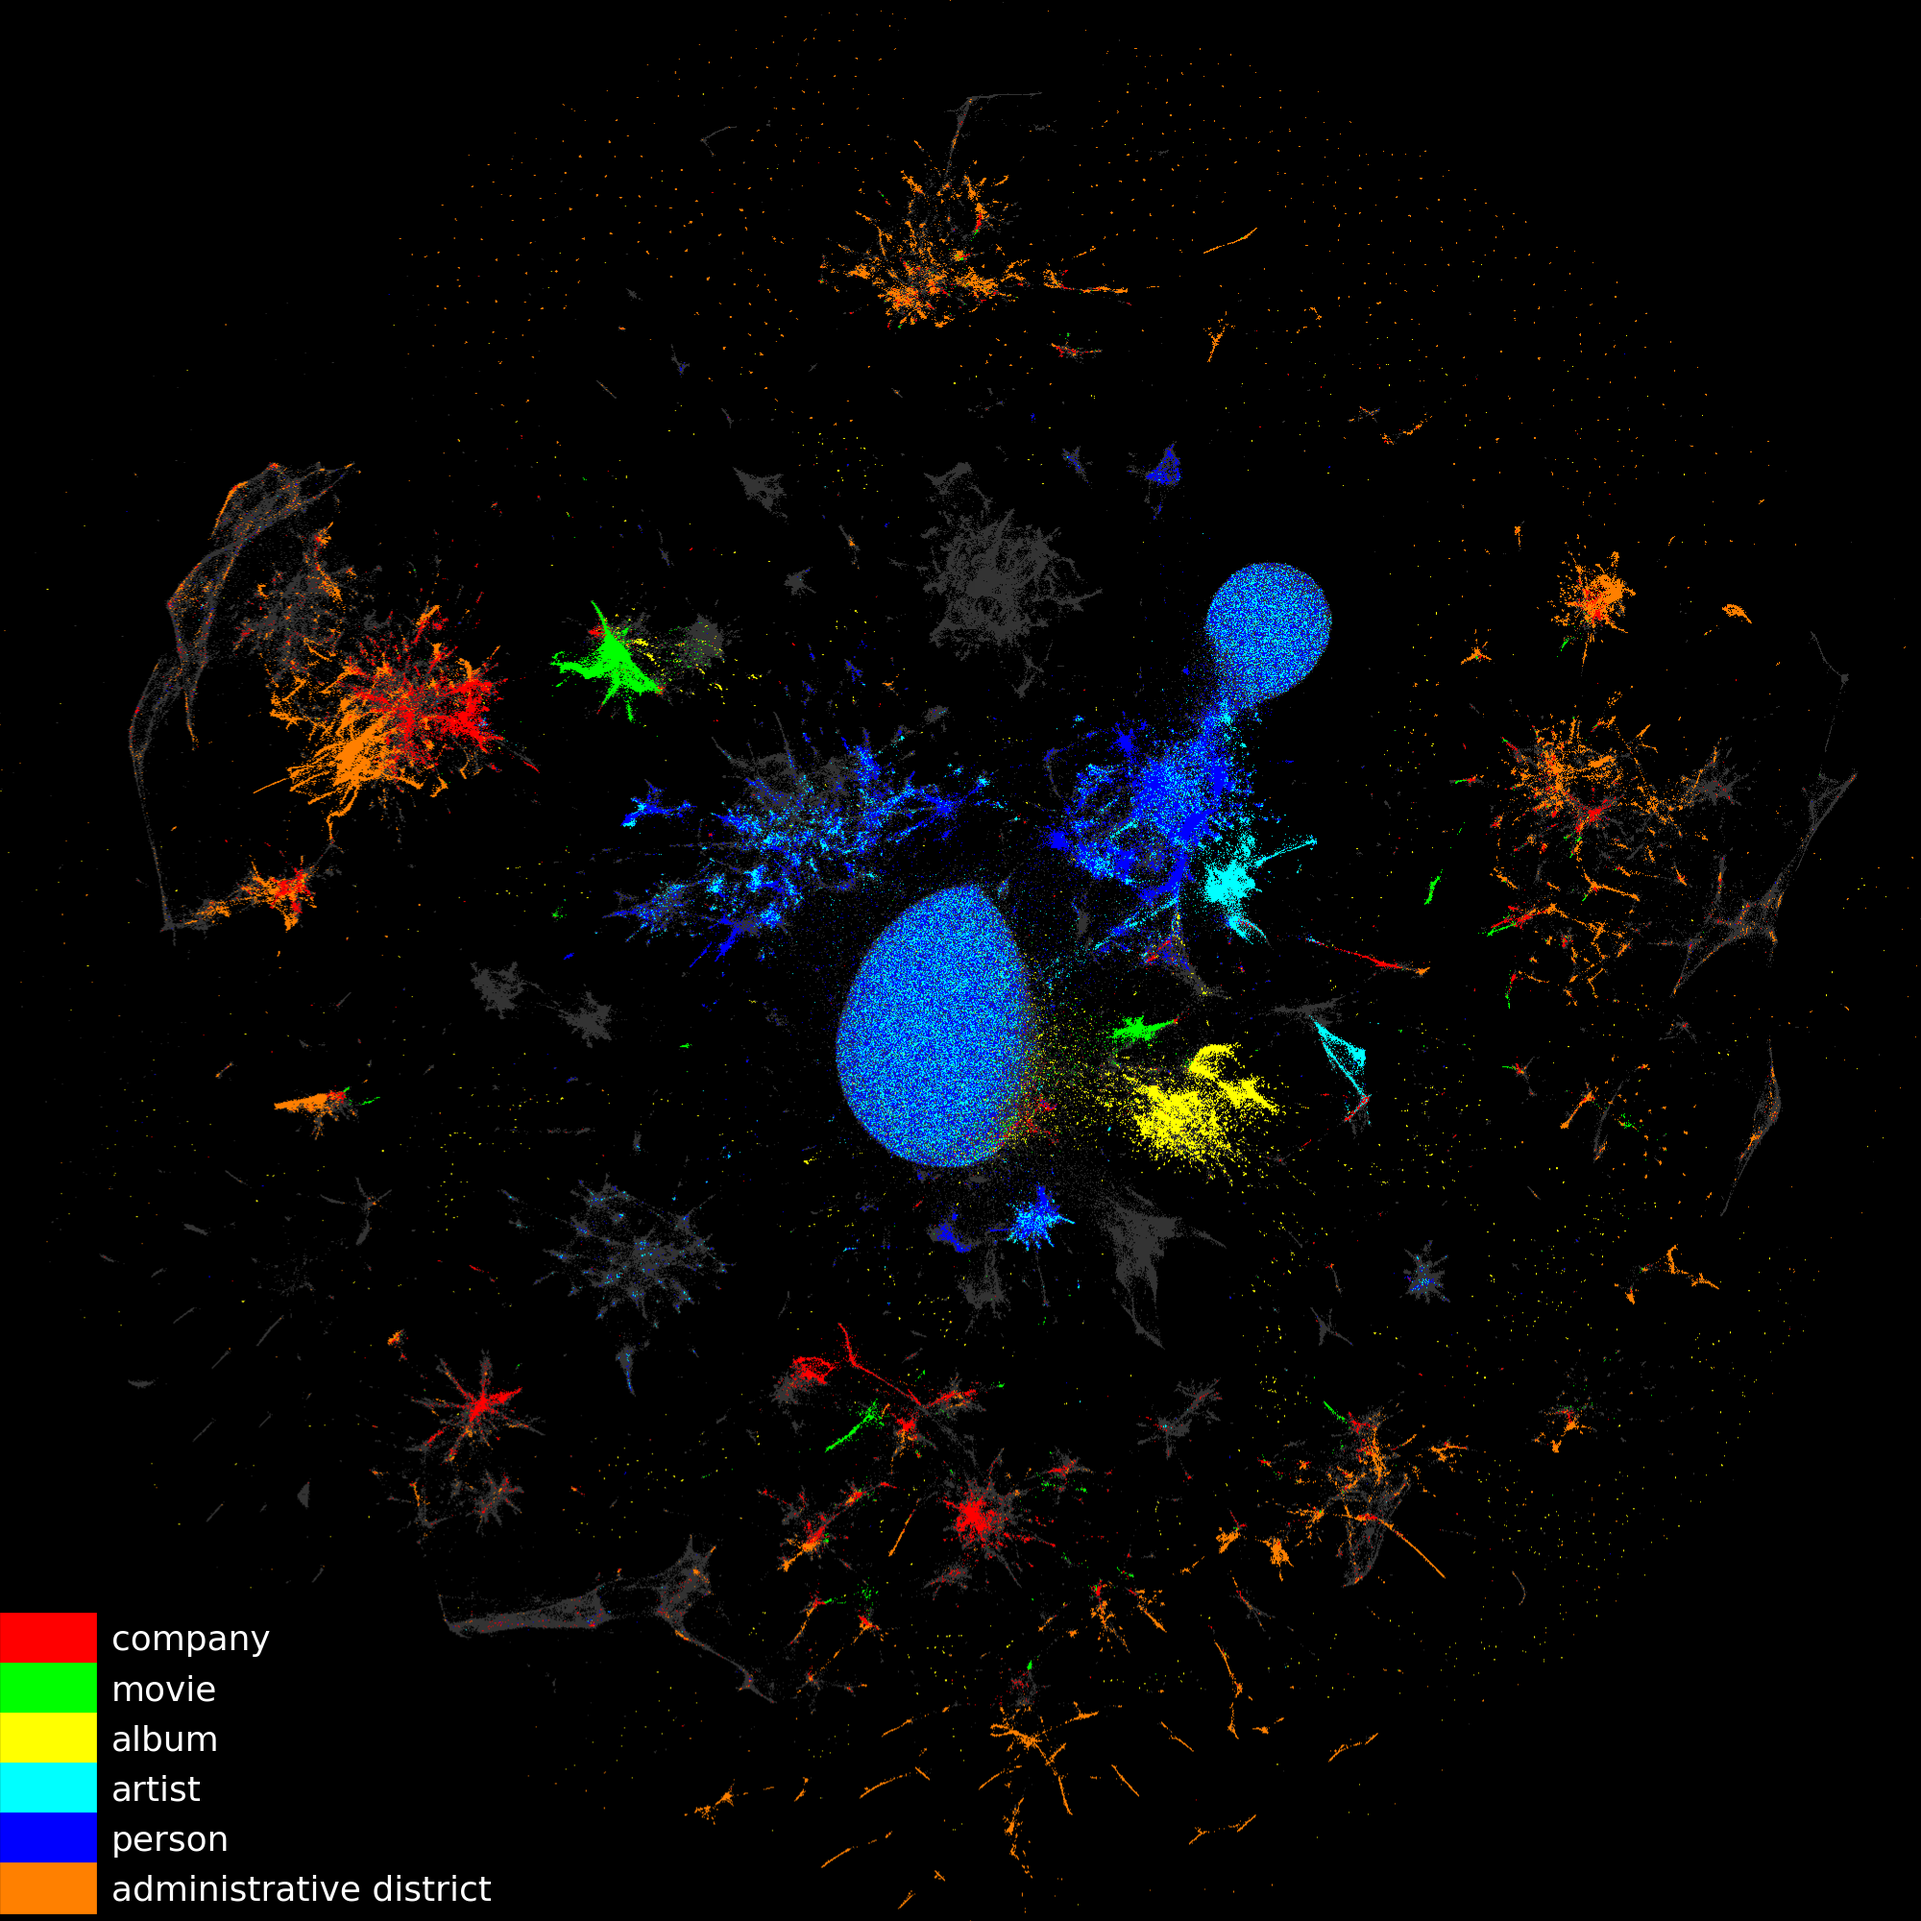
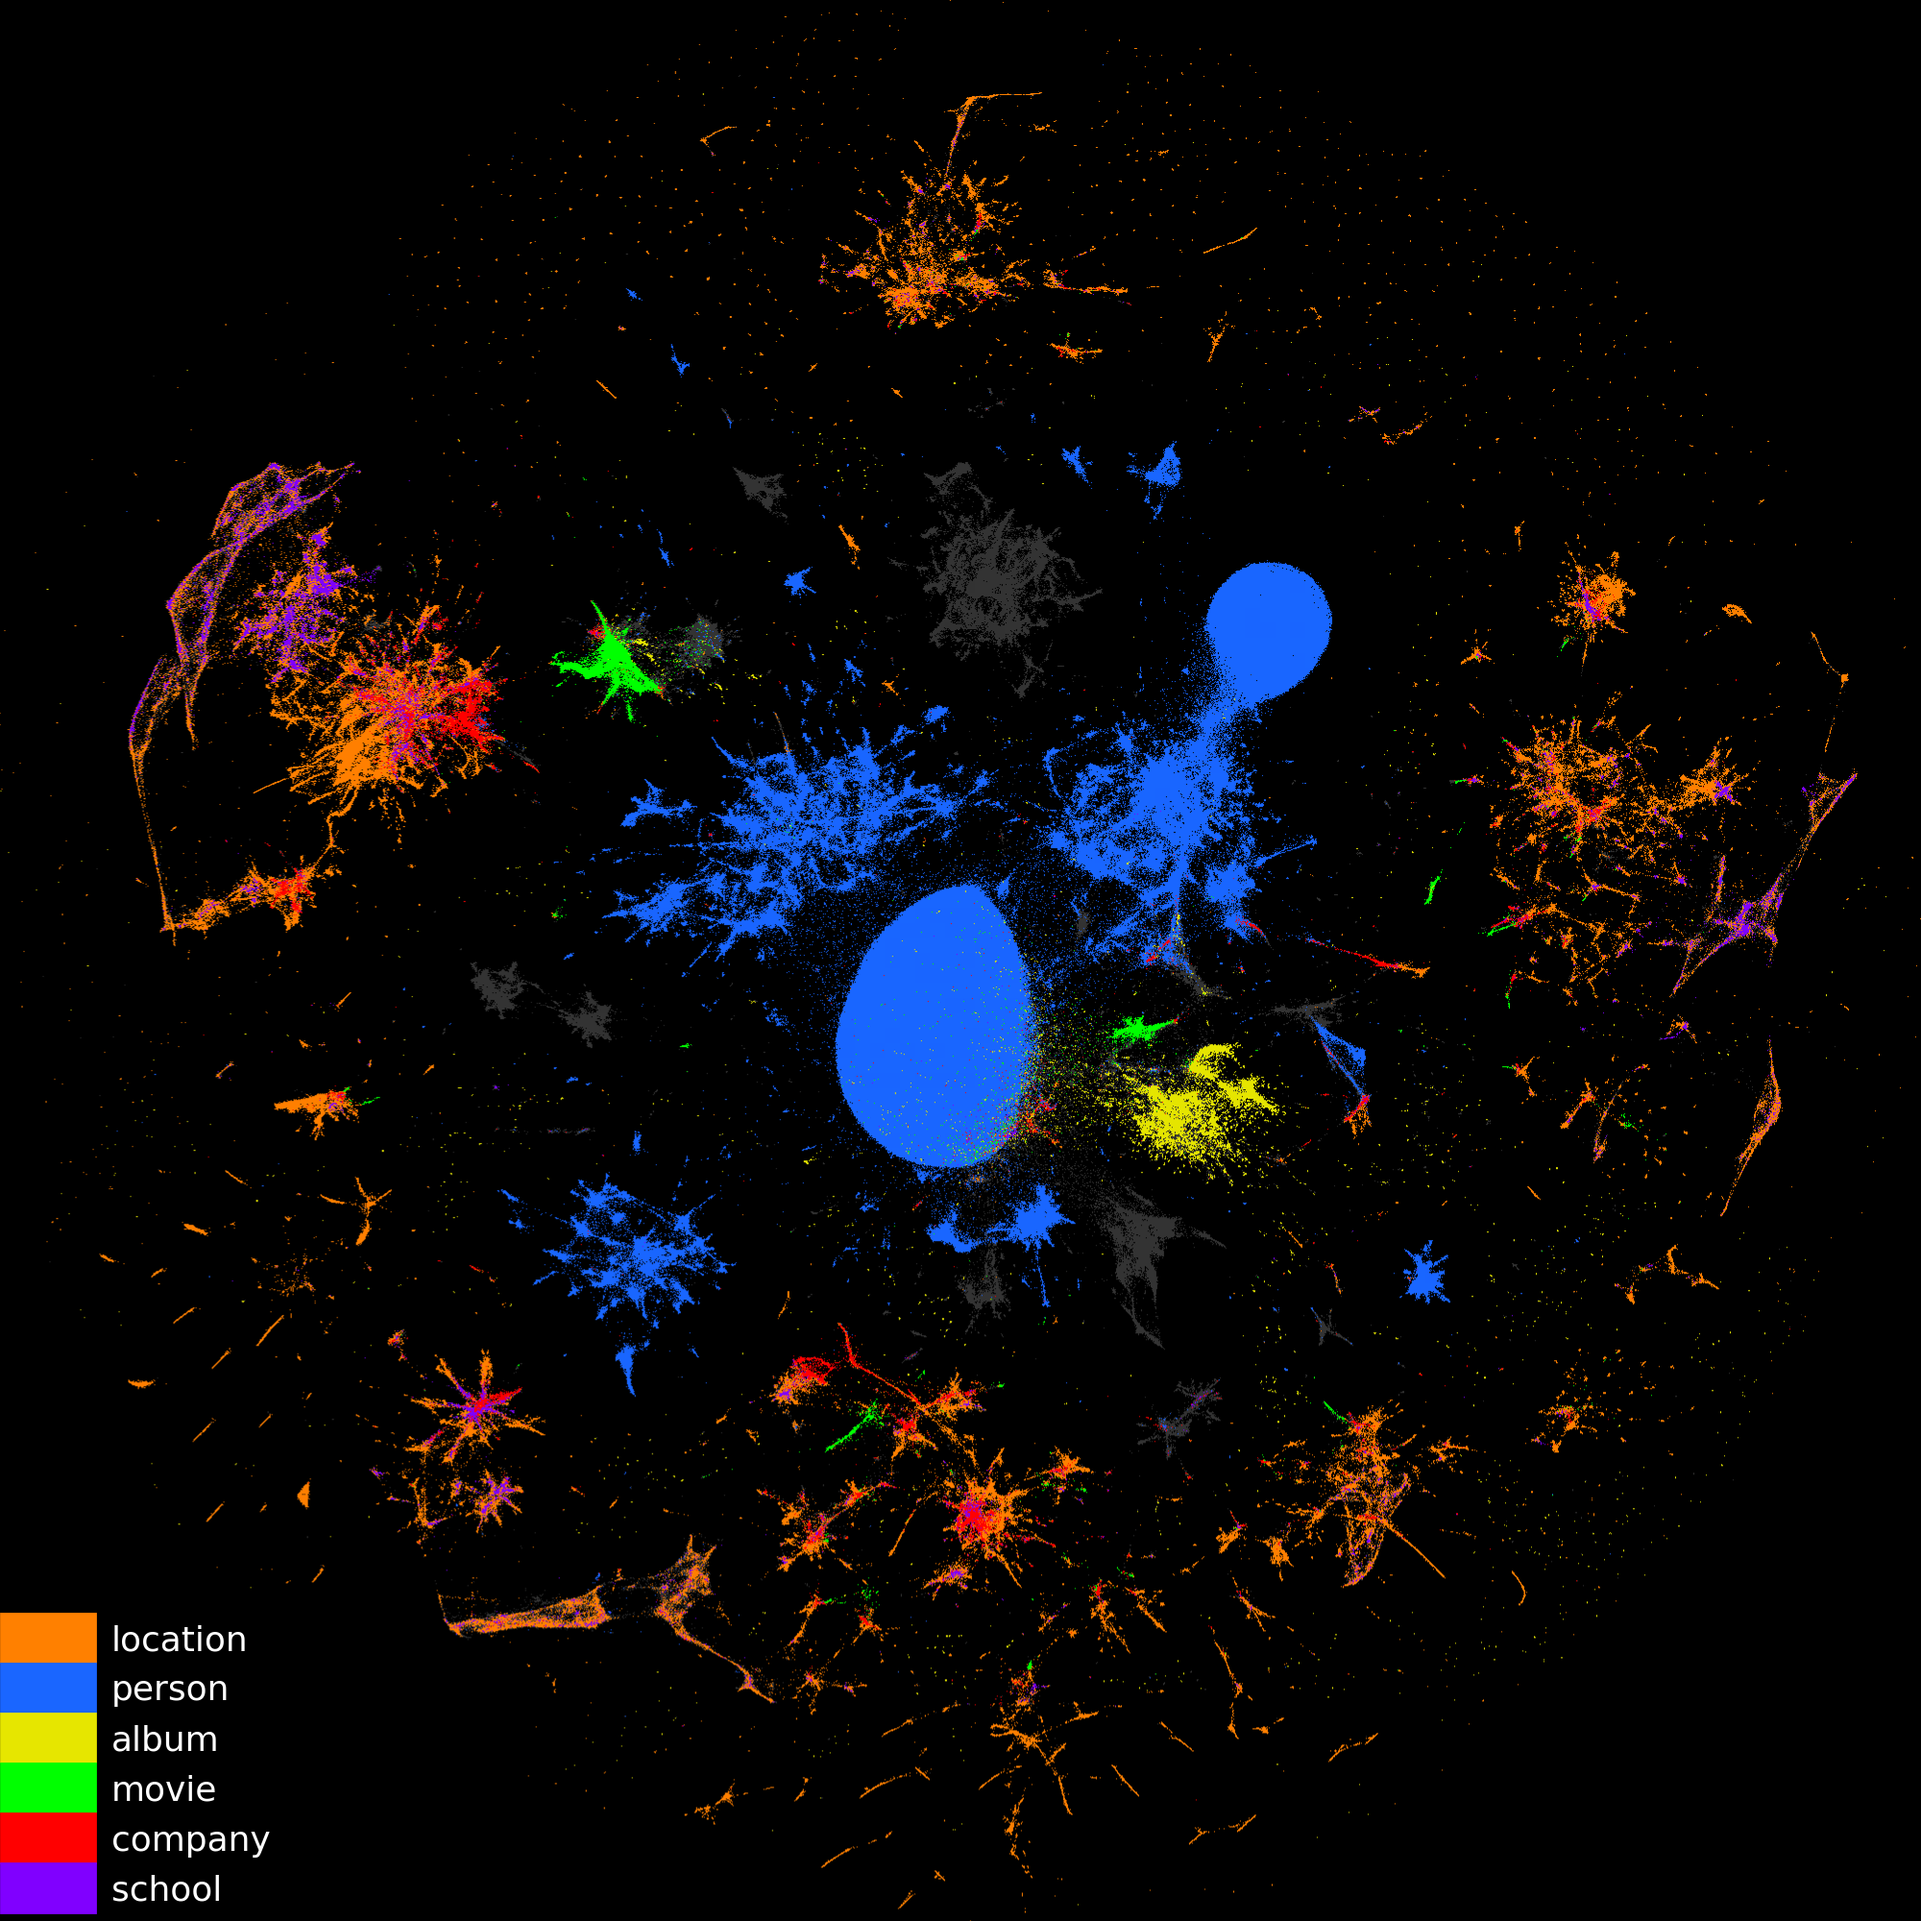
add famous entities on picture

diff --git a/scripts/plot_2d_embeddings.py b/scripts/plot_2d_embeddings.py
@@ -112,7 +112,7 @@ def plot_entity_types(add_entities: bool):
         # Locations
         "<Paris>": (-5, -30),
         "<France>": (-5, 8),
-        "<Japan>": (-30, -30),
+        "<Japan>": (0, -30),
         "<United_States>": (-190, -25),
         "<Berlin>": (-10, -30),
         "<Germany>": (5, 0),
@@ -142,6 +142,7 @@ def plot_entity_types(add_entities: bool):
         # Companies
         "<Google>": (5, 5),
         "<Apple_Inc.>": (5, -25),
+        "<Toyota>": (-5, 10),
         # Scientists
         "<Max_Planck>": (5, 0),
         "<Isaac_Newton>": (5, 0),
